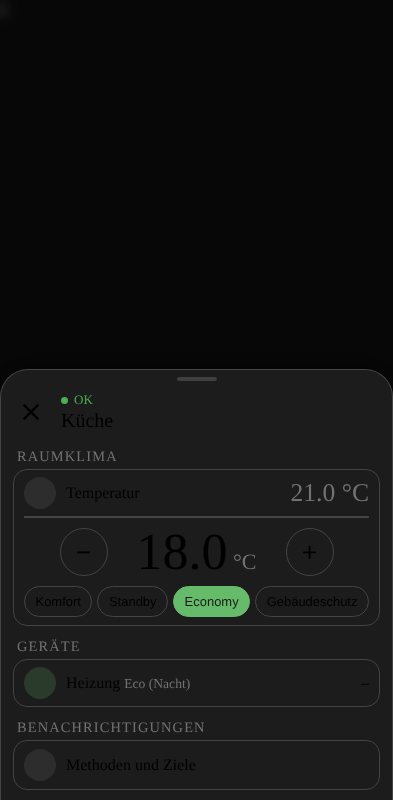
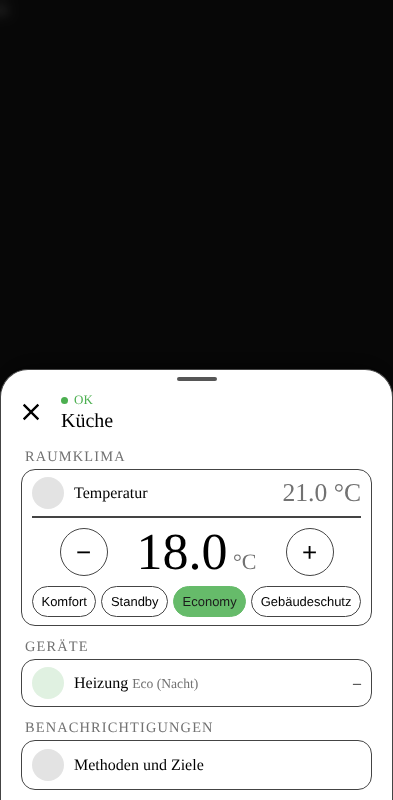
Popup: Hintergrund in Dialogfarbe, mehr Seitenrand, Übersicht-Symbol home-group (1.32.2) (#255)
Claude-Session: https://claude.ai/code/session_016N3izbgCGyVMuvVCQ46Wp9

diff --git a/custom_components/ha_smart_ventilation/www/smart-climate-card.js b/custom_components/ha_smart_ventilation/www/smart-climate-card.js
@@ -1344,7 +1344,7 @@ class SmartClimateCard extends HTMLElement {
 
       /* Kompakte Raumansicht (Raum-Dialog, compact_room): Home-Assistant-Stil */
       ha-card.sc-compact { box-shadow: none; border: none; background: transparent; }
-      ha-card.sc-compact .smart-climate-card-content { padding: 4px 12px 10px; }
+      ha-card.sc-compact .smart-climate-card-content { padding: 4px 20px 10px; }
       .cr-top { display: flex; align-items: center; gap: 8px; margin: 0 4px 4px; padding-right: 40px; }
       .cr-top h1 { flex: 1; margin: 0; font-size: 1.35em; font-weight: 500; min-width: 0; overflow-wrap: anywhere; }
       .cr-hchip {
@@ -1876,7 +1876,7 @@ function openRoomDialog(key) {
   overlay.innerHTML =
     "<style>" +
     ".sc-room-dialog{position:fixed;inset:0;z-index:2147483000;display:flex;align-items:flex-end;justify-content:center;padding:0;background:rgba(0,0,0,.55);-webkit-backdrop-filter:blur(6px);backdrop-filter:blur(6px);box-sizing:border-box;overscroll-behavior:contain;touch-action:none;animation:sc-fade .2s ease-out}" +
-    ".sc-room-panel{position:relative;display:flex;flex-direction:column;width:100%;max-width:600px;max-height:calc(100% - max(env(safe-area-inset-top,0px),8px));overflow:hidden;border-radius:28px 28px 0 0;border:1px solid var(--divider-color,rgba(127,127,127,.45));border-bottom:0;box-shadow:0 -6px 28px rgba(0,0,0,.45);background:var(--primary-background-color,var(--card-background-color,#fff));color:var(--primary-text-color,#000);box-sizing:border-box;animation:sc-up .24s ease-out}" +
+    ".sc-room-panel{position:relative;display:flex;flex-direction:column;width:100%;max-width:600px;max-height:calc(100% - max(env(safe-area-inset-top,0px),8px));overflow:hidden;border-radius:28px 28px 0 0;border:1px solid var(--divider-color,rgba(127,127,127,.45));border-bottom:0;box-shadow:0 -6px 28px rgba(0,0,0,.45);background:var(--ha-dialog-surface-background,var(--mdc-theme-surface,var(--card-background-color,#fff)));color:var(--primary-text-color,#000);box-sizing:border-box;animation:sc-up .24s ease-out}" +
     "@keyframes sc-up{from{transform:translateY(40px);opacity:0}to{transform:none;opacity:1}}" +
     "@keyframes sc-fade{from{opacity:0}to{opacity:1}}" +
     ".sc-room-grip{position:absolute;top:7px;left:50%;width:40px;height:4px;margin-left:-20px;border-radius:2px;background:var(--divider-color,rgba(127,127,127,.6));opacity:.9;pointer-events:none;z-index:3}.sc-room-scroll{padding-bottom:env(safe-area-inset-bottom,0px);overflow:auto;min-height:0;overscroll-behavior:contain;touch-action:pan-y;-webkit-overflow-scrolling:touch}" +
@@ -1902,7 +1902,7 @@ function openRoomDialog(key) {
     ".sc-room-thermo-fb{display:flex;align-items:center;justify-content:center;gap:12px;padding:8px 16px}" +
     ".sc-room-thermo-fb button{border:1px solid var(--divider-color,#999);border-radius:18px;background:transparent;color:inherit;padding:8px 16px;font-size:15px;cursor:pointer}" +
     ".sc-room-missing{padding:8px 16px 24px}" +
-    ".ov{padding:0 12px 16px}" +
+    ".ov{padding:0 20px 16px}" +
     ".ov-counts{display:flex;gap:8px;margin:2px 0 4px}" +
     ".ov-cnt{flex:1 1 0;min-width:0;display:flex;align-items:center;gap:6px;padding:10px 10px;border:1px solid var(--divider-color,rgba(127,127,127,.35));border-radius:14px;background:transparent}" +
     ".ov-cnt i{width:9px;height:9px;border-radius:50%;flex:none}.ov-cnt b{font-size:18px;font-weight:600}.ov-cnt span{font-size:12px;color:var(--secondary-text-color,#727272);overflow:hidden;text-overflow:ellipsis;white-space:nowrap;min-width:0}" +
@@ -1945,7 +1945,7 @@ function openRoomDialog(key) {
   listBtn.type = "button";
   listBtn.setAttribute("aria-label", "Übersicht");
   listBtn.title = "Übersicht";
-  listBtn.innerHTML = '<ha-icon icon="mdi:view-list"></ha-icon>';
+  listBtn.innerHTML = '<ha-icon icon="mdi:home-group"></ha-icon>';
   bar.appendChild(close);
   bar.appendChild(titleEl);
   const shutterId = (() => {

diff --git a/CLAUDE.md b/CLAUDE.md
@@ -3778,6 +3778,8 @@ Nutzer (Screenshot): Bei jedem HA-Neustart kommt beim Runterfahren eine Push (Wo
 
 **177. Popup: Sheet nur auf kleinen Bildschirmen, auf großen zentriert (1.32.1).** Nutzer (Screenshots Desktop): Home Assistants Fenster sind auf großen Schirmen zentriert, unser Popup war überall ein unten bündiges Sheet (Lektion 176). Rückfrage: ob sich HAs Einstellung auslesen lässt - zur Laufzeit nein, der Umschaltpunkt steckt als feste CSS-Regel im Frontend (`ha-dialog`: höchstens 450 px Breite oder 500 px Höhe = Vollbild/Sheet; aus dem Gedächtnis, nicht an der Instanz geprüft), daher dieselben Werte per Media Query (`min-width:451px and min-height:501px` = zentriert, 560 px breit, alle Ecken rund, ohne Griff, Einblenden statt Hochschieben). Das Wegwischen prüft `matchMedia` beim Berühren, die Umschaltung wirkt live. Stolperstein: Die Overrides der großen Ansicht müssen im CSS NACH den Basisregeln von Leiste und Scrollbereich stehen (gleiche Spezifität), sonst gewinnen die Basiswerte. Im Touch-Test (`isMobile`) braucht die Seite ein `meta viewport`, sonst gilt eine Layout-Breite von 980 px und die Media Query greift nicht. Test `test-sheet.js` jetzt über 13 Viewports (u. a. 450/451 px, 800x500/501, 844x390, 1280x900). Nicht in der iOS-App geprüft. Lektion: Ein "wie bei Home Assistant" gilt je Bildschirmklasse - das Original bei mehreren Größen ansehen, nicht nur am Handy.
 
+**178. Popup-Hintergrund in der Dialogfarbe von Home Assistant, größerer Seitenrand, neues Übersichts-Symbol (1.32.2).** Nutzer (Screenshot-Vergleich Home-Assistant-Dialog vs. unser Popup): der Home-Assistant-Dialog ist heller. Ursache: Wir nutzten `--primary-background-color` (Dashboard-Hintergrund, Lektion 117), Home Assistant für Dialoge `--ha-dialog-surface-background` bzw. die Kartenfarbe; die Lektion-117-Entscheidung galt dem Vergleich mit dem Dashboard, maßgeblich ist aber der Vergleich mit den Dialogen, neben denen das Popup erscheint. Jetzt `var(--ha-dialog-surface-background, var(--mdc-theme-surface, var(--card-background-color)))`. Seitenrand der Bereiche 12 -> 20 px (Home Assistant ca. 24 pt); 22 px ließ die Zusatzzeile "Abs. Luftfeuchtigkeit" bei 393 px umbrechen (Test `test-extra.js` schlug an), 20 px passt. Das Symbol der Übersicht (`mdi:view-list`, ähnelte dem Rollladen-Symbol) ist `mdi:home-group`. Nicht in der iOS-App geprüft. Lektion: Bei "wie das Original" das Original als Maßstab nehmen, nicht eine frühere Annäherung an etwas anderes; und eine Randänderung mit dem vorhandenen Breiten-Test prüfen - er fing hier einen Umbruch, den man nicht erwartet hätte.
+
 ## Versionierung & Release
 
 - Semantic Versioning in `manifest.json` (`version`): Patch für

diff --git a/docs/dashboard.md b/docs/dashboard.md
@@ -418,8 +418,8 @@ tap_action:
 Der Dialog folgt der Umschaltung der Home-Assistant-Fenster (ab 1.32.1): Auf kleinen Bildschirmen (bis 450 px Breite
 oder bis 500 px Höhe, also Handy hochkant und quer) ist er ein Sheet in voller Breite am unteren Rand, mit Griff und
 Wegwischen nach unten. Auf größeren Bildschirmen (Tablet, Desktop) erscheint er zentriert mit allen Ecken gerundet,
-höchstens 560 px breit, ohne Griff und Wegwischen. Die Umschaltung wirkt live (Drehen, Fenstergröße). Dashboard-
-Hintergrundfarbe, unscharf abgedunkelter Hintergrund; die Seite dahinter scrollt nicht mit. Schließen: Kreuz, Tippen
+höchstens 560 px breit, ohne Griff und Wegwischen. Die Umschaltung wirkt live (Drehen, Fenstergröße). Hintergrund in
+der Dialogfarbe von Home Assistant (`--ha-dialog-surface-background`, sonst Kartenfarbe), unscharf abgedunkelter Hintergrund dahinter; die Seite dahinter scrollt nicht mit. Schließen: Kreuz, Tippen
 neben den Dialog oder Esc.
 
 Der Dialog zeigt den Raum in einer kompakten Ansicht im Home-Assistant-Stil (ohne Übersicht
